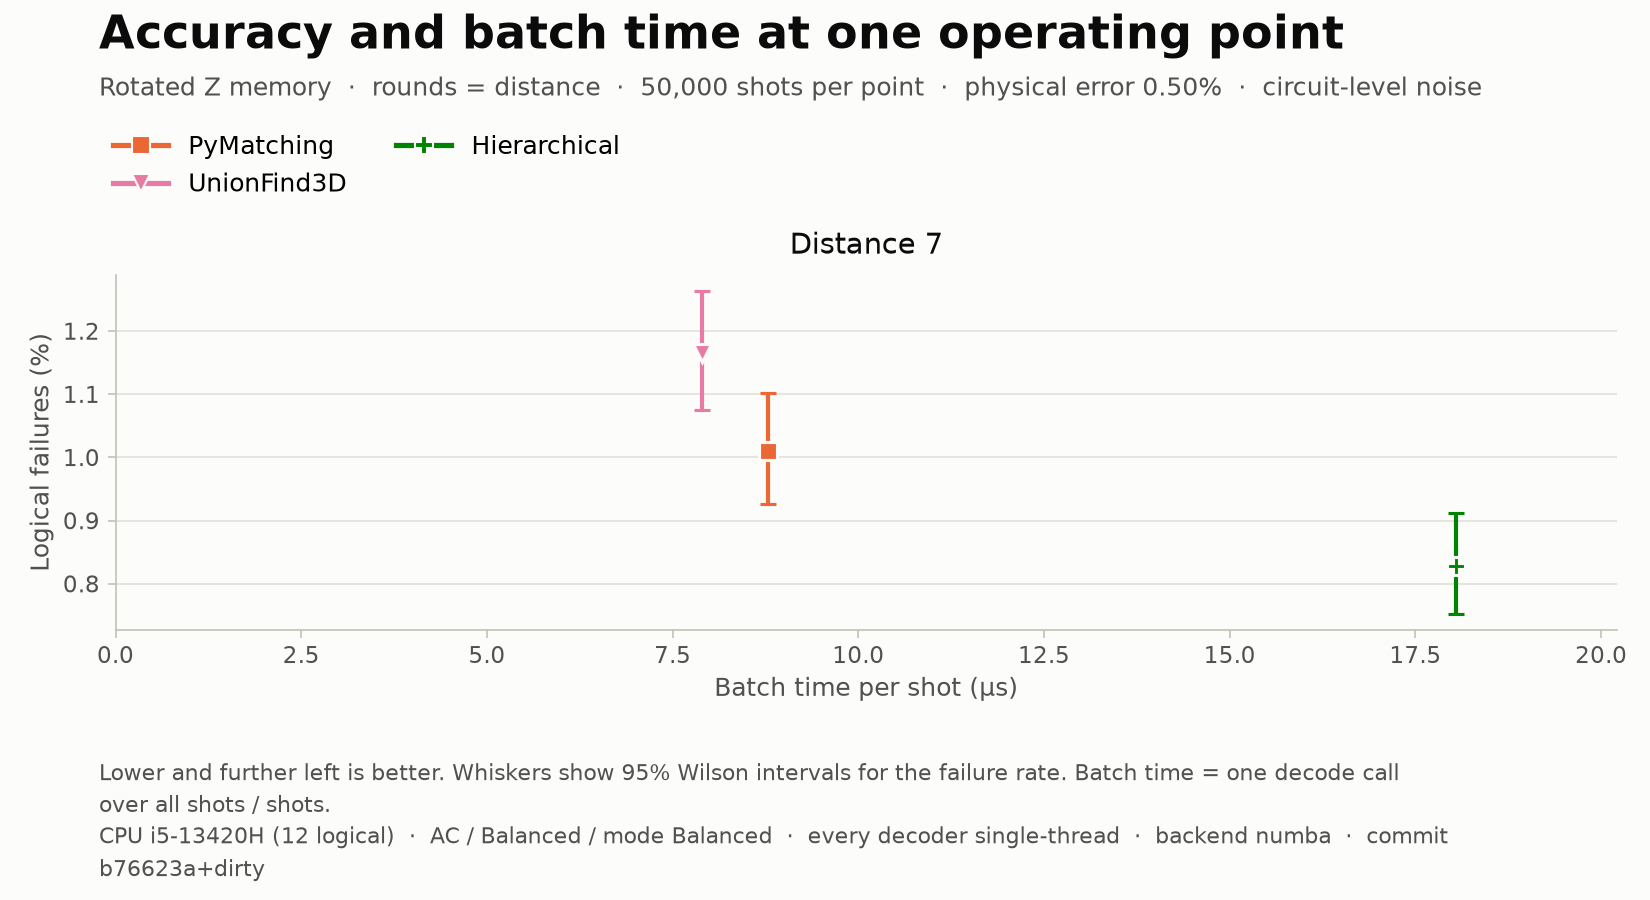
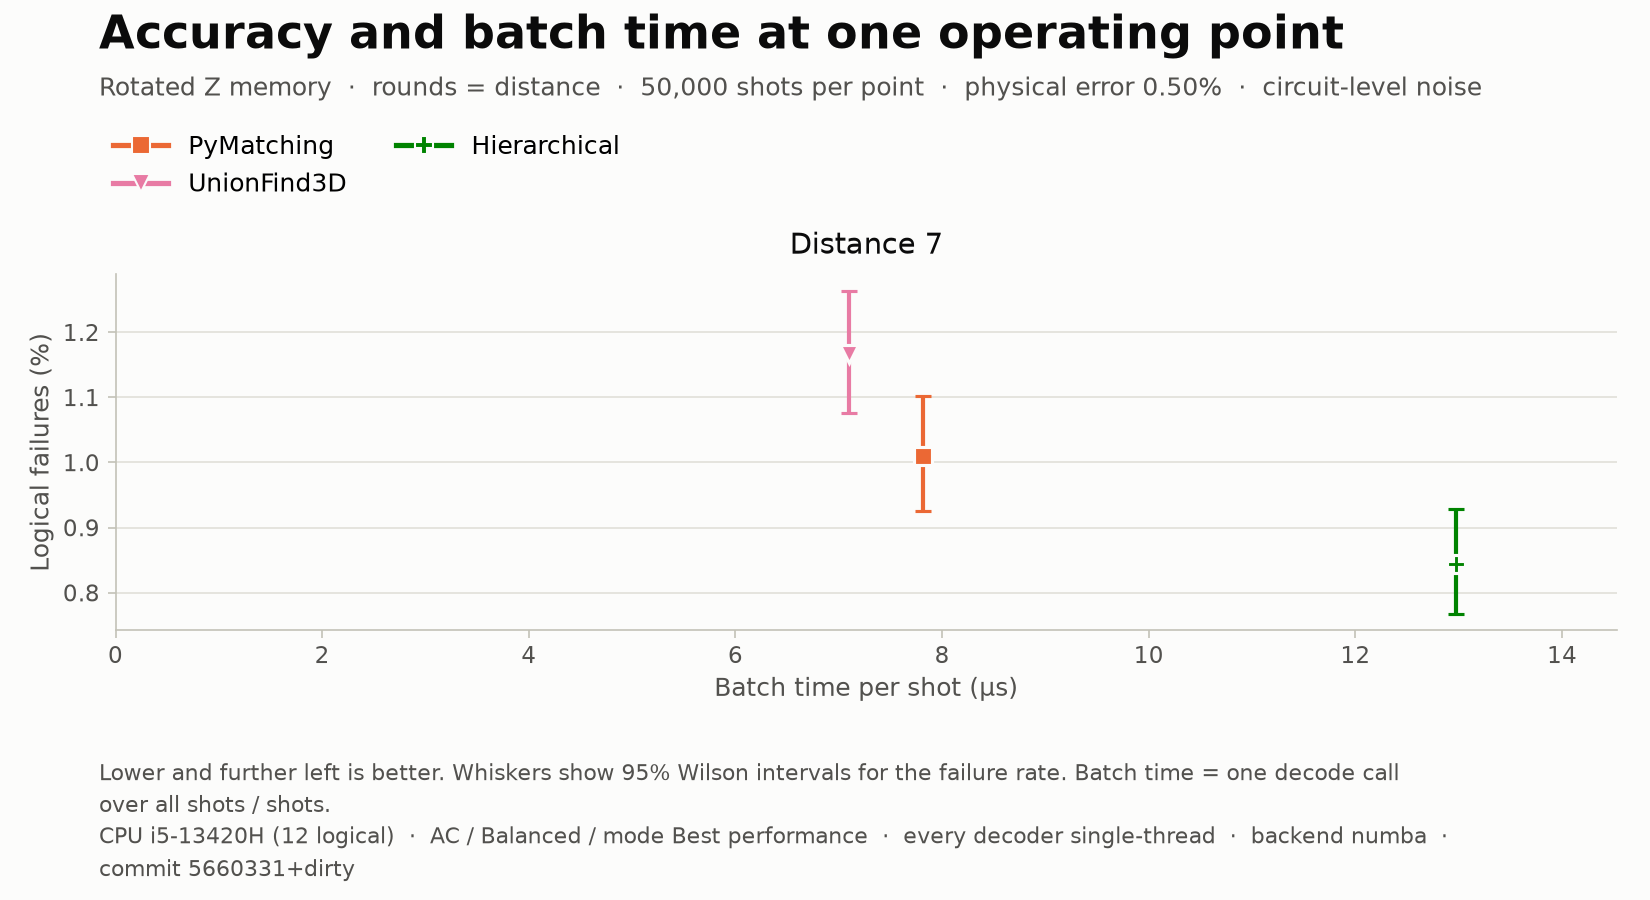
Main after merging opt/overnight: run 40, regenerated figures, README/talk/PROGRESS verdict
Operating-point run 40 (250k shots, p=0.5%, single thread): Hierarchical 1.236/0.859/0.511% vs
PyMatching 1.383/1.035/0.670% at d=5/7/9 (non-overlapping CIs) at 2.02/1.58/1.54x its time
(was 2.39/2.07/1.92x). Speed target <=1.0x not met; accuracy lead held. All _latest figures
regenerated (benchmark run 3, demo, mwpm, ensemble).

diff --git a/README.md b/README.md
@@ -5,11 +5,12 @@ against PyMatching (minimum-weight perfect matching) under circuit-level noise i
 MidQWest Northrop Grumman decoder challenge.
 
 **Headline:** our **Hierarchical** decoder (local fast path, then **correlated two-pass
-union-find**) beats plain PyMatching's accuracy with non-overlapping 95% CIs at d = 5, 7 and 9
-under circuit-level noise at p = 0.5%. At d=9, for example: 0.496% [0.470, 0.525] vs 0.670%
-[0.638, 0.702], 250k shots. Single thread vs single thread, it costs 1.9–2.4× PyMatching's time
-(2.07× at d=7, 1.92× at d=9): **not yet inside PyMatching's speed**. Correlated PyMatching is
-still more accurate (0.299% at d=9) and 2.7× PyMatching's time.
+union-find** whose second pass runs only on shots with a large first-pass cluster) beats plain
+PyMatching's accuracy with non-overlapping 95% CIs at d = 5, 7 and 9 under circuit-level noise at
+p = 0.5%. At d=9, for example: 0.511% [0.484, 0.540] vs 0.670% [0.638, 0.702], 250k shots. Single
+thread vs single thread it costs **1.58× (d=7) and 1.54× (d=9)** PyMatching's time: closer, but
+**not yet inside PyMatching's speed**. Correlated PyMatching is still more accurate (0.299% at d=9)
+and 2.7× PyMatching's time.
 
 **What's here:** eight decoders of our own, all on Stim's detector error model:
 
@@ -264,38 +265,41 @@ The figures in `results/plots/` (`*_latest.png`) come from benchmark run 1
 
 ## 5. Results
 
-### Latest: Hierarchical with correlated UF vs PyMatching (operating-point run 31, commit `313deb4`)
+### Latest: Hierarchical with correlated UF vs PyMatching (operating-point run 40, commit `5660331`)
 p = 0.5%, circuit-level, rounds = d, 5 batches × 50,000 = 250,000 shots per point (seeds 0–4,
 the same for every decoder). **Every decoder single-thread** (Windows "Best performance" power
 mode, numba cache cleared and warmed up); time is the mean batch µs/shot. Source:
-`results/operating_point/operating_point_run31.csv` and `operating_point_run31.png`.
+`results/operating_point/operating_point_run40.csv` and `operating_point_run40.png`.
 
 | d | PyMatching | Correlated PyMatching | UnionFind3D | UF3D correlated | **Hierarchical** | Hierarchical ÷ PM time |
 |---|---|---|---|---|---|---|
-| 3 | 1.656% [1.607, 1.707]; 0.31 µs | 1.625%; 0.86 µs | 1.667%; 0.57 µs | 1.608%; 0.86 µs | 1.703% [1.653, 1.755]; 0.51 µs | 1.65× |
-| 5 | 1.383% [1.338, 1.429]; 2.36 µs | 1.076% [1.036, 1.117]; 6.77 µs | 1.523%; 2.56 µs | 1.226%; 5.79 µs | **1.227% [1.185, 1.271]**; 5.64 µs | 2.39× |
-| 7 | 1.035% [0.996, 1.075]; 8.07 µs | 0.609% [0.579, 0.640]; 22.07 µs | 1.222%; 7.56 µs | 0.835%; 16.54 µs | **0.835% [0.800, 0.871]**; 16.70 µs | 2.07× |
-| 9 | 0.670% [0.638, 0.702]; 19.58 µs | 0.299% [0.278, 0.321]; 52.06 µs | 0.846%; 17.63 µs | 0.496%; 37.75 µs | **0.496% [0.470, 0.525]**; 37.66 µs | 1.92× |
+| 3 | 1.656% [1.607, 1.707]; 0.28 µs | 1.625%; 0.85 µs | 1.667%; 0.56 µs | 1.608%; 0.81 µs | 1.703% [1.653, 1.755]; 0.45 µs | 1.61× |
+| 5 | 1.383% [1.338, 1.429]; 2.31 µs | 1.076% [1.036, 1.117]; 6.51 µs | 1.523%; 2.47 µs | 1.234%; 4.53 µs | **1.236% [1.193, 1.280]**; 4.66 µs | 2.02× |
+| 7 | 1.035% [0.996, 1.075]; 8.05 µs | 0.609% [0.579, 0.640]; 21.60 µs | 1.222%; 7.36 µs | 0.859%; 12.40 µs | **0.859% [0.823, 0.896]**; 12.70 µs | **1.58×** |
+| 9 | 0.670% [0.638, 0.702]; 19.14 µs | 0.299% [0.278, 0.321]; 51.28 µs | 0.846%; 17.10 µs | 0.511%; 29.51 µs | **0.511% [0.484, 0.540]**; 29.55 µs | **1.54×** |
 
-- **Accuracy target met:** Hierarchical beats plain PyMatching with non-overlapping 95% CIs
-  at d = 5, 7 and 9. At d=3 the CIs overlap (1.703% vs 1.656%).
-- **Speed target (≤ 1.0× plain PyMatching single-thread at d = 7/9) not met:** 2.07× and
-  1.92×. Hierarchical is 0.72–0.76× of correlated PyMatching's time.
-- **Why:** correlated UF is two full UF passes; plain UF alone is 0.90–0.94× PyMatching.
-  The overnight optimization round (`docs/PROGRESS.md`, Phases A to E7) found no exact or
-  approximate way to halve that:
-  - skip-ahead growth, sparse scans and cluster-local pass 2 were all slower;
-  - online single-pass correlation lost accuracy;
-  - the accuracy options all cost time.
+- **Accuracy target met:** Hierarchical beats plain PyMatching with non-overlapping 95% CIs at
+  d = 5, 7 and 9. At d=3 the CIs overlap (1.703% vs 1.656%).
+- **Speed target (≤ 1.0× plain PyMatching single-thread at d = 7/9) not met:** 1.58× and 1.54×.
+  That is down from 2.07× / 1.92× before the final optimization round, and Hierarchical is now
+  0.58–0.59× of correlated PyMatching's time.
+- **What made it faster** (branch `opt/overnight`, merged; details in `docs/PROGRESS.md`):
+  - Pass 2 changes the predicted observable on only about 0.6% of shots, but it ran on 100% of
+    them. It now runs only when pass 1's largest cluster has more than ⌊rounds²/6.5⌋ nodes (1/3/7/12 at
+    d = 3/5/7/9), and is skipped exactly when no shortened edge touches a pass-1 node.
+  - This costs at most +0.024% absolute LER (d=7), inside the 95% CI of always running pass 2.
+  - The gate was fitted at p = 0.5%.
+- **What didn't** (measured, reverted): skip-ahead growth, sorted scans, cluster-local pass 2,
+  frontier lists, and online single-pass correlation. Growth is 70–73% of UF's time and is
+  dominated by the support increments themselves.
 - **Accurate options** (off by default, measured at 250k shots):
   - **`weighted_forest`:** −5–7% LER for +18–20% time;
   - **`scale=8`:** −7–9% LER for +27–35% time;
   - **the correlated ensemble with M=8–12:** within correlated PyMatching's CI at d = 5/7, but at 20–25× the time.
-- **Single-fault table:** every single DEM fault now decodes exactly. 39% of d=3 shots and 6% of
-  d=5 shots are answered by table lookup.
-- **Multi-core** (reported separately, not a race): Hierarchical at d=9 goes from 38.0 µs on 1
-  thread to 6.5 µs on 12 threads (5.8×) (`thread_scaling_latest.png`). PyMatching can be
-  parallelized across processes the same way.
+- **Single-fault table:** every single DEM fault decodes exactly. 39% of d=3 shots and 6% of d=5
+  shots are answered by table lookup.
+- **Multi-core** (reported separately, not a race): see `thread_scaling_latest.png`. PyMatching
+  can be parallelized across processes the same way.
 
 ### Earlier: benchmark run 1, before correlations (commit `5e7b5ff`)
 

diff --git a/docs/PROGRESS.md b/docs/PROGRESS.md
@@ -988,3 +988,36 @@ cleared, Best-performance mode. Outputs: `results/optimization/final_step5_20261
 
 **Decision: merge.** The branch is faster (−14 to −23% at d = 5–9) with LER inside main's 95% CI at every
 d, the suite is green, and the lead over plain PyMatching still has non-overlapping CIs at d = 5/7/9.
+
+Step 5 commit: `25b4df8` (branch). **Merged into main** as `5660331` (no-ff); the suite on merged
+main: 799 passed, 24 skipped, 1 xfailed.
+
+## After the merge: figures and docs on main (02:19 to 02:27)
+- **Operating-point run 40** (`results/operating_point/operating_point_run40.{csv,png}`; 250k shots,
+  p = 0.5%, single thread, Best-performance mode, numba cache cleared):
+
+  | d | PyMatching | Correlated PM | UnionFind3D | UF3D correlated | **Hierarchical** | H ÷ PM |
+  |---|---|---|---|---|---|---|
+  | 3 | 1.656% · 0.28 µs | 1.625% · 0.85 | 1.667% · 0.56 | 1.608% · 0.81 | 1.703% [1.653, 1.755] · 0.45 | 1.61× |
+  | 5 | 1.383% [1.338, 1.429] · 2.31 | 1.076% · 6.51 | 1.523% · 2.47 | 1.234% · 4.53 | **1.236% [1.193, 1.280]** · 4.66 | 2.02× |
+  | 7 | 1.035% [0.996, 1.075] · 8.05 | 0.609% · 21.60 | 1.222% · 7.36 | 0.859% · 12.40 | **0.859% [0.823, 0.896]** · 12.70 | **1.58×** |
+  | 9 | 0.670% [0.638, 0.702] · 19.14 | 0.299% · 51.28 | 0.846% · 17.10 | 0.511% · 29.51 | **0.511% [0.484, 0.540]** · 29.55 | **1.54×** |
+- **Benchmark run 3** (`20261122_022050`, commit `5660331`) regenerated:
+  - `accuracy_runtime`, `cube_collapse_story`, `accuracy_runtime_sweep`, `fast_path_fraction` and
+    `thread_scaling` (`_latest`);
+  - `demo_latest` (d=7: Hierarchical 0.844% at 1.66× PyMatching in that 50k-shot run);
+  - `mwpm_tier_p0_5_latest` and `ensemble_vs_M_latest`, re-rendered from their CSVs.
+- **The gate at lower p** (sweep, 100k shots, single thread): at p = 0.2%, d=9, Hierarchical takes
+  8.34 µs (1.49× PyMatching), down from 14.45 µs in run 2, with 4 vs 3 failures (too few to compare).
+- **Docs updated:** the README headline and "Latest" results table, and slide 8 of `docs/talk_outline.md`.
+
+## VERDICT (final round)
+- **Speed vs plain PyMatching, single thread:** **1.58× at d=7 and 1.54× at d=9** (was 2.07× / 1.92×
+  on the demo baseline `b76623a`; −23% / −20% for Hierarchical). **The ≤ 1.0× target was not met.**
+- **Accuracy lead: held.** Non-overlapping 95% CIs vs plain PyMatching at d = 5/7/9 (run 40), and LER
+  inside main's CI at every d (Step 5).
+- **What worked:** the exact pass-2 skip (helps d=5 only) and the auto pass-2 gate on pass 1's largest
+  cluster (the main gain).
+- **What didn't** (all measured and reverted): frontier tracking (bit-identical, 0.96–1.02×), plus the
+  earlier skip-ahead growth, cluster-local pass 2 and online correlation.
+- **The power mode** is restored to Balanced at the end of the session.

diff --git a/docs/talk_outline.md b/docs/talk_outline.md
@@ -109,11 +109,14 @@ Draw 5 data qubits in a line, `D1 D2 D3 D4 D5`, with 4 parity checks between nei
 ## 8. Results and limits (1:15)
 - Show the full operating-point figure and the README results table.
   - Accuracy: with correlated UF as the deep tier, Hierarchical **beats plain PyMatching** at
-    d = 5/7/9 with non-overlapping CIs (250k shots, run 31; d=7: 0.835% vs 1.035%; d=9: 0.496% vs
+    d = 5/7/9 with non-overlapping CIs (250k shots, run 40; d=7: 0.859% vs 1.035%; d=9: 0.511% vs
     0.670%). Correlated PyMatching is still better (0.609% / 0.299%).
-  - Speed, single thread vs single thread: 2.07× (d=7) and 1.92× (d=9) plain PyMatching, 0.72–0.76×
-    correlated PyMatching. Honest note: we tried to get under 1.0× overnight (skip-ahead growth,
-    cluster-local pass 2, online correlation) and measured every attempt: none of them got there.
+  - Speed, single thread vs single thread: **1.58× (d=7) and 1.54× (d=9)** plain PyMatching, down from
+    about 2× in one night. The trick: the second correlated pass changes the answer on only about 0.6%
+    of shots, so we run it only when the first pass built a big cluster (exact skip plus a gate fitted
+    within the CI).
+  - Honest note: ≤ 1.0× is not reached. We measured and reverted skip-ahead growth, cluster-local
+    pass 2, frontier lists and online correlation. The growth loop's own increments are the floor.
   - Every single DEM fault is decoded exactly (lookup table), and 39% of d=3 shots never reach UF.
   - Ensemble of 8–12 correlated UF variants: within correlated PyMatching's CI at d = 5/7, but 20–25×
     slower; it can spread one shot over 8 cores (58 µs at d=7).
